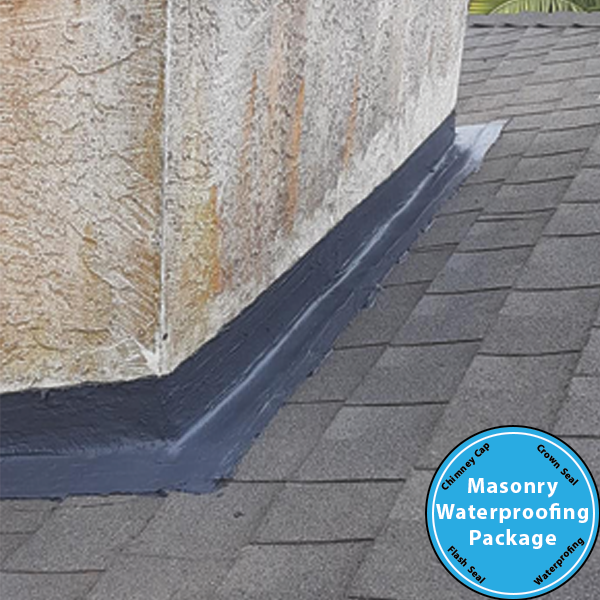
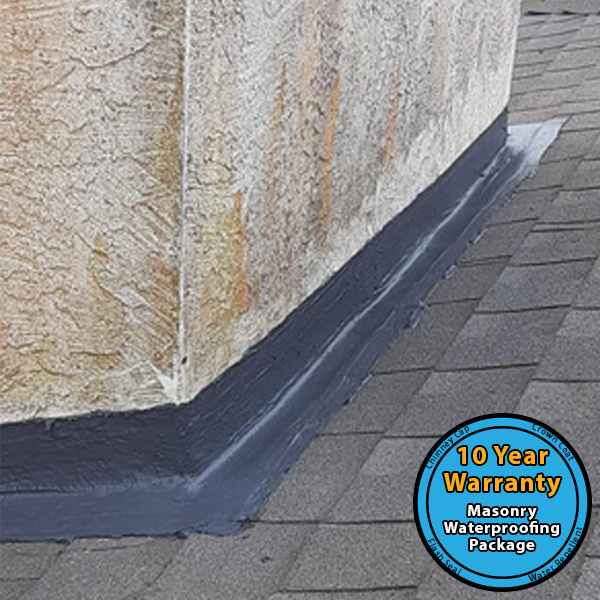
changed out crown coat photos

diff --git a/src/app/landing-page/landing-page.component.html b/src/app/landing-page/landing-page.component.html
@@ -305,6 +305,12 @@
       <hr />
     </div>
   </ng-container>
+  <ng-container *ngIf="landing.slug === 'electric-fireplaces'">
+    <div class="container text-center py-4">
+      <h1 class="p-2 text-left" [innerHTML]="landing.title"></h1>
+      <hr />
+    </div>
+  </ng-container>
   <ng-container *ngIf="landing.slug === 'water-proofing-package'">
     <div class="container text-center py-4">
       <h1 class="p-2 text-left" [innerHTML]="landing.title"></h1>
@@ -313,28 +319,50 @@
         <div class="col-6">
           <img src="/assets/images/waterProofing/waterProofpackage.png" class="img-fluid" alt="water proofing package">
         </div>
-        <div class="col-6">
-          <h2>Protect your chimnney with a guarantee and a sweet low price</h2>
+        <div class="col-6 text-left">
+          <h2>Protect your chimney from all angles with our 10-year warranty!</h2>
           <hr />
-          <p>We understand that the last thing a home owner wants to worry about is water leaking into there house.
-            That's why we're bundleing the repairs you need to guarantee your chimney isn't the cause. </p>
-          <p>Our Water Proofing package will not only seal any leaks in your chimney system, but will protect it from
-            the leading cause of chimney degredation, water intrusion. Give your chimney a new lease on life, and
-            protect your home.</p>
+          <p>The last thing you want to worry about as a homeowner is water leaking into your home. That's why our
+            waterproofing bundle includes all the repairs you need to ensure your chimney isn't the cause of any
+            unfortunate leaks.</p>
+          <p>Our waterproofing package seals any leaks you may currently have in your chimney system and protects your
+            chimney from water intrusion. Water intrusion is the leading cause of chimney degradation. - more about
+            water intrusion- Give your chimney a new lease on life, and protect your home.</p>
           <P>
-            As CSIA certified techs who have been in business in the Sacramento area for over 18 years, We know what
-            destroys chimneys. The heavy rain storms in the winter socks the bricks of your chimney, a single brick can
-            hold up to one cup of water. This adds weight to your chimney and destroys the bricks. At Mike's Mobile we
-            don't want any home owner in our area to have to worry about there chimney. That's why we bundled the
-            repairs you need to offer be able to offer a discount and warranty.
+            The process starts with <a href="/services/crown-seal">crown coat</a> applied to your chimney crown to
+            protect the integrity of the top of your
+            chimney stack. Once the <a href="/services/crown-seal">crown coat</a> has cured, we install a chimney cap
+            (not a flue cap!) to shed water away
+            from the stack. We also address leaks at the roofline by applying <a href="/services/flashing">flash
+              seal</a> where your roof meets your
+            chimney to ensure a watertight seal. We finish our waterproofing package with a <a
+              href="/services/masonry/waterproofing">water repellent</a> coating
+            applied to the entire stack that allows the chimney to breathe and sweat while still repelling outside
+            water.
           </P>
-          <p>Mike's Mobile Water Proofing package has all the repairs your chimney needs to guarantee it will be leak
-            free for 10
-            years, and because we know how essential these repairs can be were giving you 10% off when there purchased
-            together.</p>
+          <p>The waterproofing package from Mike’s Mobile includes a 10-year leak free warranty* and is 10% off with our
+            bundled pricing.</p>
+
         </div>
       </div>
       <h2 class="m-2 text-left">The components</h2>
+      <hr />
+      <div class="row text-left mt-2 justify-content-center">
+        <div class="col-2">
+          <img src="/assets/images/waterProofing/crownCoat.png" class="img-fluid" alt="custom built chimney cap">
+        </div>
+        <div class="col-8">
+          <a href="/services/crown-seal">
+            <h4>Crown Coat</h4>
+          </a>
+          <hr />
+          <ul>
+            <li>Seals Any Previous Damage to Your Crown</li>
+            <li>Protects Your Crown From Moisture</li>
+            <li>Prevents Further Cracking of Your Crown</li>
+          </ul>
+        </div>
+      </div>
       <hr />
       <div class="row text-left mt-2 justify-content-center">
         <div class="col-2">
@@ -344,38 +372,10 @@
           <h4>Custom Built Chimney Cap</h4>
           <hr />
           <ul>
-            <li>2 colors - black grey, and dark brown, </li>
-            <li>Protects your entire chimney not just your flue!</li>
-            <li>Built with galvanized steel, will outlive your chimney</li>
-          </ul>
-        </div>
-      </div>
-      <hr />
-      <div class="row text-left mt-2 justify-content-center">
-        <div class="col-2">
-          <img src="/assets/images/waterProofing/crownCoat.png" class="img-fluid" alt="custom built chimney cap">
-        </div>
-        <div class="col-8">
-          <h4>Crown Coat</h4>
-          <hr />
-          <ul>
-            <li>Seals any previous damage to your crown. </li>
-            <li>Protects your crown from moisture</li>
-          </ul>
-        </div>
-      </div>
-      <hr />
-      <div class="row text-left mt-2 justify-content-center">
-        <div class="col-2">
-          <img src="/assets/images/waterProofing/waterRepellent.png" class="img-fluid" alt="custom built chimney cap">
-        </div>
-        <div class="col-8">
-          <h4>Water Reppellent</h4>
-          <hr />
-          <ul>
-            <li>Seals your chimney stack from moisture intrusion</li>
-            <li>The bricks of your chimney will shed water preventing dangerous water intrusion that destroys bricks.
-            </li>
+            <li>3 Kynar™ Colors - Black, Grey, and Dark Brown </li>
+            <li>Protects Your Entire Chimney, Not Just Your Flue!</li>
+            <li>Sheds Water Away From the Stack</li>
+            <li>Keeps Animals, Debris and Rain Out of Your Flue</li>
           </ul>
         </div>
       </div>
@@ -385,12 +385,52 @@
           <img src="/assets/images/waterProofing/flashing.png" class="img-fluid" alt="custom built chimney cap">
         </div>
         <div class="col-8">
-          <h4>Flash Seal</h4>
+          <a href="/services/flashing">
+            <h4>Flash Seal</h4>
+          </a>
           <hr />
           <ul>
-            <li>Prevents water from entering into your roof and home</li>
-            <li>Seals any prevoius damage</li>
+            <li>Prevents Water From Entering Your Home or Chimney at the Roof Line</li>
+            <li>Covers Your Current Roof Flashing for a Water Tight Seal</li>
+            <li>Acts like a Rubber Boot for Your Chimney</li>
           </ul>
+        </div>
+      </div>
+      <hr />
+      <div class="row text-left mt-2 justify-content-center">
+        <div class="col-2">
+          <img src="/assets/images/waterProofing/waterRepellent.png" class="img-fluid" alt="custom built chimney cap">
+        </div>
+        <div class="col-8">
+          <a href="/services/masonry/waterproofing">
+            <h4>Water Reppellent</h4>
+          </a>
+          <hr />
+          <ul>
+            <li>Seals Your Chimney Stack From Moisture Intrusion</li>
+            <li>Your Chimney Bricks Will Shed Water
+            </li>
+            <li>Still Allows Your Chimney Stack to Breathe and Sweat</li>
+          </ul>
+        </div>
+      </div>
+      <hr />
+      <div class="container ">
+        <div class="row">
+          <div class="col mt-2">
+            <div class=" d-md-none ">
+              <a class="white-text" href="tel:+18009929938">
+                <h4 class="animated pulse infinite orange-text text-center cursor-pointer">
+                  <i class="fa fa-phone" aria-hidden="true"></i> &nbsp; Call Now!
+                </h4>
+              </a>
+            </div>
+            <div class=" d-none d-md-block cursor-pointer text-center" (click)="openQuoteForm()">
+              <h4 class="animated pulse infinite orange-text ">
+                &nbsp;Schedule today!
+              </h4>
+            </div>
+          </div>
         </div>
       </div>
     </div>

diff --git a/src/app/product-detail/product-detail.component.html b/src/app/product-detail/product-detail.component.html
@@ -168,24 +168,24 @@
               <div *ngIf="price">
                 <div *ngFor="let item of price.price" class="col">
                   <h5 class="p-0 ml-2 mt-1 mb-0">{{item.type}}</h5>
-                  <!-- <div class=" col priceImage ">
+                  <div class=" col priceImage ">
                     <h5 class="priceTag text-right text-white mt-1 mb-0 ml-2">Starting at</h5>
                     <h2 class="priceTag text-right mr-2 price  ml-2 text-white">{{ item.price }}</h2>
-                  </div> -->
+                  </div>
                 </div>
               </div>
               <div class="col ctaCol">
-                <!-- <div *ngIf="product.slug !== 'solar-screens'" class=" d-md-none ">
+                <div *ngIf="product.slug !== 'solar-screens'" class=" d-md-none ">
                   <a class="white-text" href="tel:+18009929938">
                     <h4 class="animated pulse infinite orange-text  cursor-pointer">
                       <i class="fa fa-phone" aria-hidden="true"></i> &nbsp; Call Now!
                     </h4>
                   </a>
-                </div> -->
-                <div *ngIf="product.slug !== 'solar-screens'" class="  cursor-pointer text-center"
+                </div>
+                <div *ngIf="product.slug !== 'solar-screens'" class=" d-none d-md-block cursor-pointer text-center"
                   (click)="openQuoteForm()">
                   <h4 class="animated pulse infinite orange-text ">
-                    &nbsp;See pricing and contact form
+                    &nbsp;Get a Free Quote Now!
                   </h4>
                 </div>
                 <div *ngIf="product.slug === 'solar-screens'" class="flex-row mt-2 cursor-pointer text-center">

diff --git a/src/app/quote-form/quote-form.component.html b/src/app/quote-form/quote-form.component.html
@@ -2,20 +2,10 @@
   aria-hidden="true">
   <div class="modal-dialog modal-dialog-scrollable" role="document">
     <div class="modal-content quoteFormContainer">
-      <div class="modal-header justify-content-center">
-        <h4 class="modal-title text-center px-2" id="quoteFormTitle">
-          Viewgaurds starting at: $1,995! <br />
-          <hr />
-          Get a Free Quote Now! <br />
-          <a class="orange-text" href="tel:+18009929938" role="link">800-992-9938</a>
-          <br />
-          <!-- <a class="white-text" href="tel:+18009929938">
-            <span class="animated pulse infinite orange-text  cursor-pointer">
-              <i class="fa fa-phone" aria-hidden="true"></i> &nbsp; Call Now!
-            </span>
-          </a> -->
+      <div class="modal-header justify-content-start">
+        <h4 class="modal-title text-start px-2" id="quoteFormTitle">
+          Get a Free Quote Now! <br /><a class="orange-text" href="tel:+18009929938" role="link">800-992-9938</a>
         </h4>
-
         <button type="button" class="close" aria-label="Close" (click)="hide()">
           <span aria-hidden="true">×</span>
         </button>
